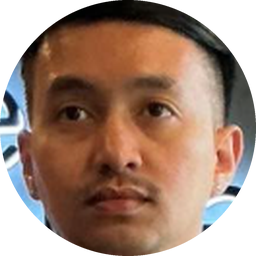
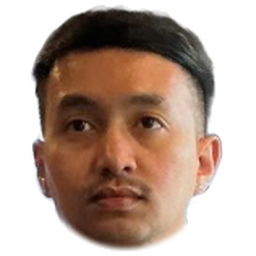
Use background-free face cut-out, drop the round frame
Claude-Session: https://claude.ai/code/session_017H93JYP9ygQS8bPk3LhkJ8

diff --git a/js/entities.js b/js/entities.js
@@ -13,7 +13,7 @@ const clamp = (v, a, b) => Math.max(a, Math.min(b, v));
 /* --------------------------------------------------------------- Player */
 // The player's face. If it fails to load, the game falls back to the bee.
 const FACE = new Image();
-FACE.src = "assets/face.png?v=2";
+FACE.src = "assets/face.png?v=3";
 
 function star(g, x, y, r) {
   g.beginPath();
@@ -99,26 +99,16 @@ class Bee {
     wing(-1);
     wing(1);
 
-    // face
+    // face (transparent cut-out, no frame)
+    const S = R * 2.5;
     g.save();
-    g.beginPath();
-    g.arc(0, 0, R, 0, Math.PI * 2);
-    g.clip();
+    g.shadowColor = "rgba(0,0,0,0.25)";
+    g.shadowBlur = 6;
+    g.shadowOffsetY = 3;
     if (!this.alive) g.filter = "grayscale(0.7)";
-    g.drawImage(FACE, -R, -R, R * 2, R * 2);
+    g.drawImage(FACE, -S / 2, -S / 2, S, S);
     g.filter = "none";
     g.restore();
-
-    g.strokeStyle = "#ffcc33";
-    g.lineWidth = 4;
-    g.beginPath();
-    g.arc(0, 0, R, 0, Math.PI * 2);
-    g.stroke();
-    g.strokeStyle = "#3a2a10";
-    g.lineWidth = 1.5;
-    g.beginPath();
-    g.arc(0, 0, R + 2, 0, Math.PI * 2);
-    g.stroke();
 
     // dizzy stars when crashed
     if (!this.alive) {

diff --git a/index.html b/index.html
@@ -6,7 +6,7 @@
   <meta name="theme-color" content="#7ec8e3" />
   <meta name="description" content="Jeme-Jeme - a tiny tap-to-flap browser game." />
   <title>Jeme-Jeme</title>
-  <link rel="stylesheet" href="css/style.css?v=2" />
+  <link rel="stylesheet" href="css/style.css?v=3" />
 </head>
 <body>
   <main id="wrap">
@@ -14,8 +14,8 @@
   </main>
   <p class="hint">Space / Click / Tap to flap &middot; P to pause &middot; M to mute</p>
 
-  <script src="js/audio.js?v=2"></script>
-  <script src="js/entities.js?v=2"></script>
-  <script src="js/game.js?v=2"></script>
+  <script src="js/audio.js?v=3"></script>
+  <script src="js/entities.js?v=3"></script>
+  <script src="js/game.js?v=3"></script>
 </body>
 </html>
